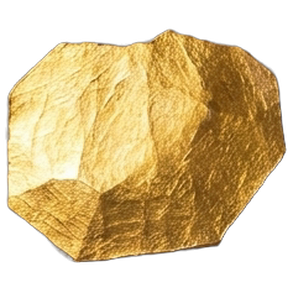
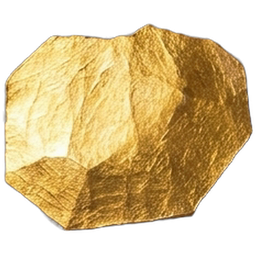
Branch audit fixes: treasure art keeps the old footprint, art has its own random source
From Codex's whole-branch gameplay audit (origin/main...art/reskin), confirmed and fixed:
- Hook.HoldInClaw places a carried treasure by its sprite bounds. Gold and diamond art were up to 24%
  larger than the shapes they replaced, so carried treasure sat differently. They are re-cut as full-rect
  sprites whose canvas is exactly the old footprint (gold: the 1-unit circle; diamond: the old 1.0667 x
  0.9333 gem, 240 px per unit). ArtImportRules enforces it; boil frames re-cut the same way.
- PaperFx, PaperPuppet and PaperConfetti drew from UnityEngine.Random, the gameplay stream. They now use
  ArtLibrary.Range/Value (own System.Random).
- The sticker peel's 0.5 s wait before the scene load is kept as a deliberate, documented performance.
- Store and character demo clips re-recorded.

diff --git a/Assets/Scripts/Art/PaperFx.cs b/Assets/Scripts/Art/PaperFx.cs
@@ -105,11 +105,11 @@ public class PaperFx : MonoBehaviour
         int count = Mathf.RoundToInt(Mathf.Lerp(8, 18, Mathf.InverseLerp(0.3f, 1.2f, size)) * amount);
         for (int i = 0; i < count; i++)
         {
-            float a = Random.value * Mathf.PI * 2f;
-            float speed = Random.Range(1.6f, 3.4f) * (0.6f + size * 0.5f);
-            Spawn(Kind.Flake, flake, at, new Vector3(Mathf.Cos(a), Mathf.Sin(a)) * speed, Random.Range(-720f, 720f),
-                Random.Range(0.4f, 0.65f), Random.Range(0.09f, 0.16f) * (0.7f + size * 0.4f), 0f,
-                palette[Random.Range(0, palette.Length)], 400);
+            float a = ArtLibrary.Value * Mathf.PI * 2f;
+            float speed = ArtLibrary.Range(1.6f, 3.4f) * (0.6f + size * 0.5f);
+            Spawn(Kind.Flake, flake, at, new Vector3(Mathf.Cos(a), Mathf.Sin(a)) * speed, ArtLibrary.Range(-720f, 720f),
+                ArtLibrary.Range(0.4f, 0.65f), ArtLibrary.Range(0.09f, 0.16f) * (0.7f + size * 0.4f), 0f,
+                palette[ArtLibrary.Range(0, palette.Length)], 400);
         }
         if (ring != null) Spawn(Kind.Ring, ring, at, Vector3.zero, 0f, 0.33f, size * 0.8f, size * 3.2f, ringColor, 400);
         if (disc != null && glow.HasValue) Spawn(Kind.Ring, disc, at, Vector3.zero, 0f, 0.25f, size * 1.6f, size * 1.5f, glow.Value, 400);
@@ -124,7 +124,7 @@ public class PaperFx : MonoBehaviour
         var b = new Bit
         {
             look = look, kind = kind, at = at, velocity = velocity, spin = spin, life = life, size = size,
-            grow = grow, color = color, angle = Random.value * 360f, bornFrame = StopMotion.Frame,
+            grow = grow, color = color, angle = ArtLibrary.Value * 360f, bornFrame = StopMotion.Frame,
         };
         live.Add(b);
         Pose(b);   // the first pose shows at once
@@ -201,20 +201,20 @@ public class PaperFx : MonoBehaviour
     void CatchLight()
     {
         if (sparkle == null || Time.time < nextCatch || Treasure.Active.Count == 0) return;
-        nextCatch = Time.time + Random.Range(2.5f, 4.5f);
+        nextCatch = Time.time + ArtLibrary.Range(2.5f, 4.5f);
         Camera cam = Camera.main;
         for (int tries = 0; tries < 6; tries++)
         {
-            Treasure t = Treasure.Active[Random.Range(0, Treasure.Active.Count)];
+            Treasure t = Treasure.Active[ArtLibrary.Range(0, Treasure.Active.Count)];
             if (t == null || t.IsFrozen) continue;
             SpriteRenderer look = t.GetComponent<SpriteRenderer>();
             if (look == null || !look.isVisible) continue;
             if (cam != null && !cam.pixelRect.Contains(cam.WorldToScreenPoint(look.bounds.center))) continue;
             Bounds b = look.bounds;
-            Vector3 at = b.center + new Vector3(b.extents.x * Random.Range(-0.45f, 0.2f), b.extents.y * Random.Range(0.1f, 0.5f), 0f);
+            Vector3 at = b.center + new Vector3(b.extents.x * ArtLibrary.Range(-0.45f, 0.2f), b.extents.y * ArtLibrary.Range(0.1f, 0.5f), 0f);
             Color tint = t.type == TreasureType.Diamond ? new Color(0.88f, 0.97f, 1f) : new Color(1f, 0.97f, 0.82f);
             Bit c = Spawn(Kind.Catch, sparkle, at, Vector3.zero, 0f, CatchPoses.Length / StopMotion.Twos, b.size.y * 0.6f, 0f, tint, look.sortingOrder + 1);
-            c.angle = Random.Range(0, 2) * 45f;
+            c.angle = ArtLibrary.Range(0, 2) * 45f;
             Pose(c);
             return;
         }

diff --git a/Assets/Scripts/Art/PaperPuppet.cs b/Assets/Scripts/Art/PaperPuppet.cs
@@ -144,7 +144,7 @@ public class PaperPuppet : MonoBehaviour
         foreach (PlayerCharacter p in FindObjectsByType<PlayerCharacter>(FindObjectsSortMode.None))
         {
             if (!known.Add(p.GetInstanceID())) continue;
-            var a = new Actor { player = p, lastAt = p.transform.position, nextBlink = Time.time + Random.Range(1f, 3f), nextFlick = Time.time + Random.Range(4f, 8f) };
+            var a = new Actor { player = p, lastAt = p.transform.position, nextBlink = Time.time + ArtLibrary.Range(1f, 3f), nextFlick = Time.time + ArtLibrary.Range(4f, 8f) };
             foreach (Transform t in p.GetComponentsInChildren<Transform>(true))
             {
                 if (t == p.transform || t.GetComponent<Collider2D>() != null) continue;
@@ -159,7 +159,7 @@ public class PaperPuppet : MonoBehaviour
         foreach (Transform root in FindObjectsByType<Transform>(FindObjectsSortMode.None))
         {
             if (!root.name.Contains("Meowmeow") || !known.Add(root.GetInstanceID())) continue;
-            var e = new Enemy { root = root, nextGlare = Time.time + Random.Range(1f, 3f) };
+            var e = new Enemy { root = root, nextGlare = Time.time + ArtLibrary.Range(1f, 3f) };
             var reds = new List<Transform>();
             foreach (SpriteRenderer r in root.GetComponentsInChildren<SpriteRenderer>(true))
                 if (r.color.r > 0.5f && r.color.g < 0.2f && r.transform != root && r.GetComponent<Collider2D>() == null) reds.Add(r.transform);
@@ -214,8 +214,8 @@ public class PaperPuppet : MonoBehaviour
         bool charging = p is RhinoController rhino && rhino.IsCharging;
         bool rolling = p is CatController cat && cat.IsRolling;
 
-        if (Time.time >= a.nextBlink) { a.blinkAt = Time.time; a.nextBlink = Time.time + Random.Range(2.2f, 5f); }
-        if (Time.time >= a.nextFlick) { a.flickAt = Time.time; a.nextFlick = Time.time + Random.Range(5f, 9f); }
+        if (Time.time >= a.nextBlink) { a.blinkAt = Time.time; a.nextBlink = Time.time + ArtLibrary.Range(2.2f, 5f); }
+        if (Time.time >= a.nextFlick) { a.flickAt = Time.time; a.nextFlick = Time.time + ArtLibrary.Range(5f, 9f); }
 
         int pose = StopMotion.Frame;
         float sinceBrace = now - StopMotion.Snap(a.braceAt, StopMotion.Twos);
@@ -287,7 +287,7 @@ public class PaperPuppet : MonoBehaviour
     void Glare(Enemy e, float now)
     {
         if (!e.root.gameObject.activeInHierarchy) return;
-        if (Time.time >= e.nextGlare) { e.glareAt = Time.time; e.nextGlare = Time.time + Random.Range(1.8f, 3.6f); }
+        if (Time.time >= e.nextGlare) { e.glareAt = Time.time; e.nextGlare = Time.time + ArtLibrary.Range(1.8f, 3.6f); }
         float since = now - StopMotion.Snap(e.glareAt, StopMotion.Twos);
         float narrow = since < 4f / StopMotion.Twos ? (since < 1f / StopMotion.Twos ? 0.8f : 0.55f) : 1f;
         foreach (Transform t in e.eyes)

diff --git a/Assets/Scripts/Art/PaperConfetti.cs b/Assets/Scripts/Art/PaperConfetti.cs
@@ -80,12 +80,12 @@ public class PaperConfetti : MonoBehaviour
             var p = new Piece
             {
                 look = look,
-                at = new Vector2(Random.Range(0f, w), h + Random.Range(0.02f, 0.4f) * h),
-                velocity = new Vector2(Random.Range(-0.12f, 0.12f) * h, Random.Range(-0.4f, -0.05f) * h),
-                spin = Random.Range(-540f, 540f), angle = Random.value * 360f,
-                life = Random.Range(2.6f, 3.6f), size = Random.Range(0.022f, 0.036f) * h, sway = Random.value * 6f,
+                at = new Vector2(ArtLibrary.Range(0f, w), h + ArtLibrary.Range(0.02f, 0.4f) * h),
+                velocity = new Vector2(ArtLibrary.Range(-0.12f, 0.12f) * h, ArtLibrary.Range(-0.4f, -0.05f) * h),
+                spin = ArtLibrary.Range(-540f, 540f), angle = ArtLibrary.Value * 360f,
+                life = ArtLibrary.Range(2.6f, 3.6f), size = ArtLibrary.Range(0.022f, 0.036f) * h, sway = ArtLibrary.Value * 6f,
             };
-            look.color = Paper[Random.Range(0, Paper.Length)];
+            look.color = Paper[ArtLibrary.Range(0, Paper.Length)];
             live.Add(p);
             Pose(p);
         }

diff --git a/Assets/Editor/Art/ArtImportRules.cs b/Assets/Editor/Art/ArtImportRules.cs
@@ -40,6 +40,15 @@ public class ArtImportRules : AssetPostprocessor
             settings.spriteMeshType = SpriteMeshType.FullRect;
             settings.spriteBorder = new Vector4(32, 32, 32, 32);
         }
+        else if (assetPath.Contains("/Objects/") && (file.StartsWith("Gold") || file.StartsWith("Diamond")))
+        {
+            // Treasure: the sprite's bounds are read by gameplay (Hook.HoldInClaw places a carried
+            // treasure by them), so they must equal the old look's exactly: full rect, canvas = the old
+            // footprint. Gold: the 1-unit circle (256 px). Diamond: the old 1.0667 x 0.9333 gem
+            // (256 x 224 px at 240 px per unit).
+            settings.spriteMeshType = SpriteMeshType.FullRect;
+            if (file.StartsWith("Diamond")) settings.spritePixelsPerUnit = 240;
+        }
         else if (assetPath.Contains("/Slices/"))
         {
             // 9-slice strips for small world-space pieces (SpriteRenderer drawMode Sliced): 1024 px = 1

diff --git a/Assets/Scripts/Art/ArtLibrary.cs b/Assets/Scripts/Art/ArtLibrary.cs
@@ -7,6 +7,13 @@ public static class ArtLibrary
 {
     static readonly Dictionary<string, Sprite> cache = new Dictionary<string, Sprite>();
 
+    // Art's own random numbers. Effects never draw from UnityEngine.Random, the stream gameplay uses
+    // (spawns, AI), so adding or removing an effect can't change what the game rolls next.
+    static readonly System.Random rng = new System.Random();
+    public static float Value => (float)rng.NextDouble();
+    public static float Range(float min, float max) => min + (max - min) * (float)rng.NextDouble();
+    public static int Range(int min, int max) => max <= min ? min : rng.Next(min, max);   // max exclusive, like Random.Range
+
     // "Objects/Heart" -> Resources/Art/Objects/Heart; null when that art does not exist.
     public static Sprite Get(string name)
     {

diff --git a/docs/art-style.md b/docs/art-style.md
@@ -27,9 +27,13 @@ Before and after:
 
    Anything whose colour code reads (`Rock`, `MapHub`) keeps its tint. Its art is light greyscale paper so the
    tint still colours it. Only art whose tint means nothing is shown in its own colours (`ArtLibrary.ApplyPainted`).
-4. **Same footprint.** A new sprite covers exactly the area of the shape it replaces: 256 px = 1 unit, centred,
-   edge to edge. Colliders, scales and gameplay components are never changed for looks.
-5. **Art never changes gameplay.** No changes to rules, skills, timing, hitboxes or balance. If an effect has to
+4. **Same footprint.** A new sprite covers exactly the box of the shape it replaces: 256 px = 1 unit, centred,
+   edge to edge. Where gameplay reads a sprite's bounds (a carried treasure sits by them), the art is a full-rect
+   sprite whose canvas is the old box (`ArtImportRules`). Colliders, scales and gameplay components are never
+   changed for looks.
+5. **Art has its own dice.** Effects draw from `ArtLibrary.Range/Value`, never `UnityEngine.Random`, so
+   they can't shift what spawns or AI roll next.
+6. **Art never changes gameplay.** No changes to rules, skills, timing, hitboxes or balance. If an effect has to
    hook into gameplay code, it only reads state, and it falls back to the old look when the art is missing.
 
 ## Characters
@@ -161,7 +165,7 @@ art-only and posed on twos.
 | Skill cooldown / Hulk charge | the tint fills the felt body up to a torn-paper edge; the charge spreads as a hand-cut disc | `PlayerCharacter`, `RhinoController` |
 | Hook aim (telegraph) | a running stitch of twisted thread, whole line shown at once; stitches march toward the target on twos | `TelegraphLine` |
 | Scene change | felt curtain holds, dips, is pulled away | `PaperCurtain` |
-| Start / Continue | the felt sticker peels off right to left (suggested by the team) | `MainMenu` |
+| Start / Continue | the felt sticker peels off right to left (suggested by the team); the scene load waits for the 0.5 s peel | `MainMenu` |
 
 `PaperPuppet` works as an additive pose layer. Before any script's `FixedUpdate` or `Update`, every part it posed
 is put back exactly as it was. After every `LateUpdate`, it re-poses them for the picture. Gameplay and the
